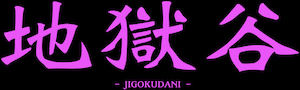
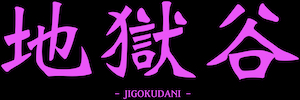
トップ画面の各画像を軽量化

diff --git a/index.html b/index.html
@@ -90,7 +90,7 @@
             <p style="text-align: center">LOCAL MAP</p>
           </x-sign>
           <div class="map">
-            <img src="./img/map2.webp" alt="locale MAP">
+            <img src="./img/map.webp" alt="locale MAP">
           </div>
         </div>
         <br>
@@ -128,7 +128,7 @@
               </li>
               <li>
                 <a href="./about/miki" target="_blank">
-                  <img src="./img/miki.jpg" alt="味希 野田阪神店">
+                  <img src="./img/miki.webp" alt="味希 野田阪神店">
                   <dl>
                     <dt>味希 野田阪神店</dt>
                     <dd>焼肉</dd>
@@ -137,7 +137,7 @@
               </li>
               <li>
                 <a href="./about/deuce_mix_kitchen_bakery" target="_blank">
-                  <img src="./img/deuce_mix.jpg" alt="デュース ミックス キッチン ベーカリー">
+                  <img src="./img/deuce_mix.webp" alt="デュース ミックス キッチン ベーカリー">
                   <dl>
                     <dt>デュース ミックス<br>キッチン ベーカリー</dt>
                     <dd>パン</dd>
@@ -146,7 +146,7 @@
               </li>
               <li>
                 <a href="./about/zen" target="_blank">
-                  <img src="./img/zen.jpg" alt="串焼きダイニング 善">
+                  <img src="./img/zen.webp" alt="串焼きダイニング 善">
                   <dl>
                     <dt>串焼きダイニング 善</dt>
                     <dd>焼鳥</dd>
@@ -155,7 +155,7 @@
               </li>
               <li>
                 <a href="./about/stand-sakaba_maharo" target="_blank">
-                  <img src="./img/stand-sakaba_maharo.jpg" alt="スタンド酒場 まはろ">
+                  <img src="./img/stand-sakaba_maharo.webp" alt="スタンド酒場 まはろ">
                   <dl>
                     <dt>スタンド酒場 <br class="line-break">まはろ</dt>
                     <dd>立ち呑み居酒屋</dd>
@@ -164,7 +164,7 @@
               </li>
               <li>
                 <a href="./about/koshou" target="_blank">
-                  <img src="./img/koshou.jpg" alt="粉匠">
+                  <img src="./img/koshou.webp" alt="粉匠">
                   <dl>
                     <dt>粉匠</dt>
                     <dd>居酒屋</dd>
@@ -175,7 +175,7 @@
               </li>
               <li>
                 <a href="./about/yagi-chan" target="_blank">
-                  <img src="./img/yagi-chan.jpg" alt="海鮮居酒屋 やぎちゃん">
+                  <img src="./img/yagi-chan.webp" alt="海鮮居酒屋 やぎちゃん">
                   <dl>
                     <dt>海鮮居酒屋<br>やぎちゃん</dt>
                     <dd>居酒屋</dd>
@@ -185,7 +185,7 @@
               </li>
               <li>
                 <a href="./about/tousen" target="_blank">
-                  <img src="./img/tousen.jpg" alt="中川酒造 透泉">
+                  <img src="./img/tousen.webp" alt="中川酒造 透泉">
                   <dl>
                     <dt>中川酒造 透泉</dt>
                     <dd>居酒屋</dd>
@@ -194,7 +194,7 @@
               </li>
               <li>
                 <a href="./about/pagu_chan" target="_blank">
-                  <img src="./img/pagu_chan.jpg" alt="立呑 ぱぐちゃん">
+                  <img src="./img/pagu_chan.webp" alt="立呑 ぱぐちゃん">
                   <dl>
                     <dt>立呑 ぱぐちゃん</dt>
                     <dd>立ち呑み居酒屋</dd>
@@ -203,7 +203,7 @@
               </li>
               <li>
                 <a href="./about/otahuku" target="_blank">
-                  <img src="./img/otahuku.jpg" alt="大衆酒場 お多福">
+                  <img src="./img/otahuku.webp" alt="大衆酒場 お多福">
                   <dl>
                     <dt>大衆酒場 お多福</dt>
                     <dd>居酒屋</dd>
@@ -214,7 +214,7 @@
               </li>
               <li>
                 <a href="./about/senior_club" target="_blank">
-                  <img src="./img/senior_club.jpg" alt="シニア倶楽部 遊時">
+                  <img src="./img/senior_club.webp" alt="シニア倶楽部 遊時">
                   <dl>
                     <dt>シニア倶楽部 <br class="line-break">遊時</dt>
                     <dd>スナック</dd>
@@ -223,7 +223,7 @@
               </li>
               <li>
                 <a href="./about/stand_toyo" target="_blank">
-                  <img src="./img/stand_toyo.jpg" alt="スタンド とよ">
+                  <img src="./img/stand_toyo.webp" alt="スタンド とよ">
                   <dl>
                     <dt>スタンド とよ</dt>
                     <dd>居酒屋</dd>
@@ -232,7 +232,7 @@
               </li>
               <li>
                 <a href="./about/sakaba_karon" target="_blank">
-                  <img src="./img/sakaba_karon.jpg" alt="酒場カロン">
+                  <img src="./img/sakaba_karon.webp" alt="酒場カロン">
                   <dl>
                     <dt>酒場カロン</dt>
                     <dd>立ち呑み居酒屋</dd>
@@ -241,7 +241,7 @@
               </li>
               <li>
                 <a href="./about/snack_saki" target="_blank">
-                  <img src="./img/snack_saki.jpg" alt="スナック咲">
+                  <img src="./img/snack_saki.webp" alt="スナック咲">
                   <dl>
                     <dt>スナック咲</dt>
                     <dd>スナック</dd>
@@ -250,7 +250,7 @@
               </li>
               <li>
                 <a href="./about/maruei" target="_blank">
-                  <img src="./img/maruei.jpg" alt="マルエイ">
+                  <img src="./img/maruei.webp" alt="マルエイ">
                   <dl>
                     <dt>マルエイ</dt>
                     <dd>居酒屋</dd>
@@ -261,7 +261,7 @@
               </li>
               <li>
                 <a href="./about/kokure" target="_blank">
-                  <img src="./img/kokure.jpg" alt="立呑みコクレ">
+                  <img src="./img/kokure.webp" alt="立呑みコクレ">
                   <dl>
                     <dt>立呑みコクレ</dt>
                     <dd>立ち呑みバー</dd>
@@ -270,7 +270,7 @@
               </li>
               <li>
                 <a href="./about/sakura_next" target="_blank">
-                  <img src="./img/sakura_next.jpg" alt="桜ねくすと">
+                  <img src="./img/sakura_next.webp" alt="桜ねくすと">
                   <dl>
                     <dt>桜ねくすと</dt>
                     <dd>居酒屋</dd>
@@ -280,7 +280,7 @@
               </li>
               <li>
                 <a href="./about/hokkoriba-ru_hoshiboshi" target="_blank">
-                  <img src="./img/hokkoriba-ru_hoshiboshi.jpg" alt="ほっこりばーる ほしぼし">
+                  <img src="./img/hokkoriba-ru_hoshiboshi.webp" alt="ほっこりばーる ほしぼし">
                   <dl>
                     <dt>ほっこりばーる<br>ほしぼし</dt>
                     <dd>バー</dd>
@@ -289,7 +289,7 @@
               </li>
               <li>
                 <a href="./about/gyouza_sankaku" target="_blank">
-                  <img src="./img/gyouza_sankaku.jpg" alt="地獄谷 餃子さんかく">
+                  <img src="./img/gyouza_sankaku.webp" alt="地獄谷 餃子さんかく">
                   <dl>
                     <dt>地獄谷 <br class="line-break">餃子さんかく</dt>
                     <dd>餃子</dd>
@@ -298,7 +298,7 @@
               </li>
               <li>
                 <a href="./about/asobi-bar_aira" target="_blank">
-                  <img src="./img/asobi-bar_aira.jpg" alt="遊びBAR アイラ">
+                  <img src="./img/asobi-bar_aira.webp" alt="遊びBAR アイラ">
                   <dl>
                     <dt>遊びBAR アイラ</dt>
                     <dd>カラオケバー</dd>
@@ -307,7 +307,7 @@
               </li>
               <li>
                 <a href="./about/bar_hanare" target="_blank">
-                  <img src="./img/bar_hanare.jpg" alt="BARハナレ">
+                  <img src="./img/bar_hanare.webp" alt="BARハナレ">
                   <dl>
                     <dt>BARハナレ</dt>
                     <dd>カラオケバー</dd>
@@ -316,7 +316,7 @@
               </li>
               <li>
                 <a href="./about/ichimaru_ramen" target="_blank">
-                  <img src="./img/ichimaru_ramen.jpg" alt="いちまるらーめん">
+                  <img src="./img/ichimaru_ramen.webp" alt="いちまるらーめん">
                   <dl>
                     <dt>いちまるらーめん</dt>
                     <dd>ラーメン</dd>
@@ -327,7 +327,7 @@
               </li>
               <li>
                 <a href="./about/sakaba_daigaku" target="_blank">
-                  <img src="./img/sakaba_daigaku.jpg" alt="酒場ダイガク">
+                  <img src="./img/sakaba_daigaku.webp" alt="酒場ダイガク">
                   <dl>
                     <dt>酒場ダイガク</dt>
                     <dd>居酒屋</dd>
@@ -336,7 +336,7 @@
               </li>
               <li>
                 <a href="./about/tetsukabuto" target="_blank">
-                  <img src="./img/tetsukabuto.jpg" alt="炭火焼鳥 鉄カブト">
+                  <img src="./img/tetsukabuto.webp" alt="炭火焼鳥 鉄カブト">
                   <dl>
                     <dt>炭火焼鳥 <br class="line-break">鉄カブト</dt>
                     <dd>焼鳥</dd>
@@ -345,7 +345,7 @@
               </li>
               <li>
                 <a href="./about/the_zoo" target="_blank">
-                  <img src="./img/the_zoo.jpg" alt="THE ZOO">
+                  <img src="./img/the_zoo.webp" alt="THE ZOO">
                   <dl>
                     <dt>THE ZOO</dt>
                     <dd>バー</dd>
@@ -354,7 +354,7 @@
               </li>
               <li>
                 <a href="./about/shou" target="_blank">
-                  <img src="./img/shou.jpg" alt="shou">
+                  <img src="./img/shou.webp" alt="shou">
                   <dl>
                     <dt>天ぷらとお出汁 渉</dt>
                     <dd>天ぷら</dd>
@@ -363,7 +363,7 @@
               </li>
               <li>
                 <a href="./about/soyogi_an" target="_blank">
-                  <img src="./img/soyogi_an.jpg" alt="そよぎ庵">
+                  <img src="./img/soyogi_an.webp" alt="そよぎ庵">
                   <dl>
                     <dt>そよぎ庵</dt>
                     <dd>茶葉料理</dd>
@@ -373,7 +373,7 @@
               </li>
               <li>
                 <a href="./about/move_on" target="_blank">
-                  <img src="./img/move_on.jpg" alt="move on">
+                  <img src="./img/move_on.webp" alt="move on">
                   <dl>
                     <dt>move on</dt>
                     <dd>スナック</dd>
@@ -382,7 +382,7 @@
               </li>
               <li>
                 <a href="./about/goemon" target="_blank">
-                  <img src="./img/goemon.jpg" alt="五右衛門">
+                  <img src="./img/goemon.webp" alt="五右衛門">
                   <dl>
                     <dt>五右衛門</dt>
                     <dd>カレー</dd>
@@ -391,7 +391,7 @@
               </li>
               <li>
                 <a href="./about/karaoke-bar_tsu-yan" target="_blank">
-                  <img src="./img/karaoke-bar_tsu-yan.jpg" alt="jigokudani karaoke bar つーやん">
+                  <img src="./img/karaoke-bar_tsu-yan.webp" alt="jigokudani karaoke bar つーやん">
                   <dl>
                     <dt>jigokudani karaoke bar <br class="line-break">つーやん</dt>
                     <dd>カラオケバー</dd>
@@ -400,7 +400,7 @@
               </li>
               <li>
                 <a href="./about/nomidokoro_nagomi" target="_blank">
-                  <img src="./img/nomidokoro_nagomi.jpg" alt="呑処 なごみ">
+                  <img src="./img/nomidokoro_nagomi.webp" alt="呑処 なごみ">
                   <dl>
                     <dt>呑処 なごみ</dt>
                     <dd>居酒屋</dd>
@@ -409,7 +409,7 @@
               </li>
               <li>
                 <a href="./about/shiragiku" target="_blank">
-                  <img src="./img/shiragiku.jpg" alt="おとーり酒場　白菊">
+                  <img src="./img/shiragiku.webp" alt="おとーり酒場　白菊">
                   <dl>
                     <dt>おとーり酒場　<br class="line-break">白菊</dt>
                     <dd>居酒屋</dd>
@@ -419,7 +419,7 @@
               </li>
               <li>
                 <a href="./about/utanoya" target="_blank">
-                  <img src="./img/utanoya.jpg" alt="うたのや">
+                  <img src="./img/utanoya.webp" alt="うたのや">
                   <dl>
                     <dt>うたのや</dt>
                     <dd>カラオケバー</dd>
@@ -428,7 +428,7 @@
               </li>
               <li>
                 <a href="./about/snack_ai" target="_blank">
-                  <img src="./img/snack_ai.jpg" alt="スナック愛">
+                  <img src="./img/snack_ai.webp" alt="スナック愛">
                   <dl>
                     <dt>スナック愛</dt>
                     <dd>スナック</dd>
@@ -437,7 +437,7 @@
               </li>
               <li>
                 <a href="./about/shuen_yururi" target="_blank">
-                  <img src="./img/shuen_yururi.jpg" alt="酒縁　ゆるり">
+                  <img src="./img/shuen_yururi.webp" alt="酒縁　ゆるり">
                   <dl>
                     <dt>酒縁　ゆるり</dt>
                     <dd>日本酒バー</dd>
@@ -447,7 +447,7 @@
               </li>
               <li>
                 <a href="./about/kouhuku" target="_blank">
-                  <img src="./img/kouhuku.jpg" alt="こうふく">
+                  <img src="./img/kouhuku.webp" alt="こうふく">
                   <dl>
                     <dt>こうふく</dt>
                     <dd>お好み焼き</dd>
@@ -456,7 +456,7 @@
               </li>
               <li>
                 <a href="./about/kushiyaki_tsu-tan" target="_blank">
-                  <img src="./img/kushiyaki_tsu-tan.jpg" alt="地獄谷 串焼つーたん">
+                  <img src="./img/kushiyaki_tsu-tan.webp" alt="地獄谷 串焼つーたん">
                   <dl>
                     <dt>地獄谷 <br class="line-break">串焼つーたん</dt>
                     <dd>立ち呑み居酒屋</dd>
@@ -466,7 +466,7 @@
               </li>
               <li>
                 <a href="./about/hermanos" target="_blank">
-                  <img src="./img/404.jpg" alt="地獄谷立呑みスタンドエルマノス">
+                  <img src="./img/404.webp" alt="地獄谷立呑みスタンドエルマノス">
                   <dl>
                     <dt>地獄谷立呑みスタンドエルマノス</dt>
                     <dd>バー</dd>
@@ -475,7 +475,7 @@
               </li>
               <li>
                 <a href="./about/meido_bar" target="_blank">
-                  <img src="./img/meido_bar.jpg" alt="地獄谷冥土バー">
+                  <img src="./img/meido_bar.webp" alt="地獄谷冥土バー">
                   <dl>
                     <dt>地獄谷冥土バー</dt>
                     <dd>バー</dd>
@@ -484,7 +484,7 @@
               </li>
               <li>
                 <a href="./about/terimi" target="_blank">
-                  <img src="./img/terimi.jpg" alt="照味">
+                  <img src="./img/terimi.webp" alt="照味">
                   <dl>
                     <dt>照味</dt>
                     <dd>居酒屋</dd>
@@ -493,7 +493,7 @@
               </li>
               <li>
                 <a href="./about/R" target="_blank">
-                  <img src="./img/R.jpg" alt="R">
+                  <img src="./img/R.webp" alt="R">
                   <dl>
                     <dt>R</dt>
                     <dd>バー</dd>
@@ -502,7 +502,7 @@
               </li>
               <li>
                 <a href="./about/bar_masquerade" target="_blank">
-                  <img src="./img/bar_masquerade.jpg" alt="バー・マスカレード">
+                  <img src="./img/bar_masquerade.webp" alt="バー・マスカレード">
                   <dl>
                     <dt>バー・マスカレード</dt>
                     <dd>バー</dd>
@@ -511,7 +511,7 @@
               </li>
               <li>
                 <a href="./about/fermata" target="_blank">
-                  <img src="./img/fermata.jpg" alt="イタリア料理店 カフェレストラン fermata">
+                  <img src="./img/fermata.webp" alt="イタリア料理店 カフェレストラン fermata">
                   <dl>
                     <dt>イタリア料理店<br>カフェレストラン fermata</dt>
                     <dd>イタリアン</dd>
